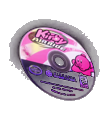
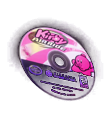
Анимация «Готово»: ровный мягкий край диска вместо рваного тёмного контура

Changed region(s): [[0.0811, 0.144, 0.9189, 0.816], [0.4865, 0.456, 0.5946, 0.528]]

diff --git a/tools/bake_done_gif.py b/tools/bake_done_gif.py
@@ -20,7 +20,7 @@ CGBitmapContextGetData = dr._sig(dr._cg, "CGBitmapContextGetData", ctypes.c_void
 CGBitmapContextGetBytesPerRow = dr._sig(dr._cg, "CGBitmapContextGetBytesPerRow", _sz, ctypes.c_void_p)
 
 
-def bake(src_path, out_dir, height=170, glow=3.0):
+def bake(src_path, out_dir, height=170, glow=4.0):
     os.makedirs(out_dir, exist_ok=True)
     url = dr._url(src_path)
     src = dr.CGImageSourceCreateWithURL(url, None)
@@ -44,8 +44,9 @@ def bake(src_path, out_dir, height=170, glow=3.0):
             for x in range(w):
                 p = row + x * 4
                 m = max(buf[p], buf[p + 1], buf[p + 2])
-                # чёрный фон (почти 0) — прозрачный; уже со слабой яркостью — почти непрозрачный диск
-                a = 0 if m < 6 else min(255, int(60 + m * glow))
+                # непрозрачность плавно растёт с яркостью: чёрный фон прозрачный, край диска — мягкий,
+                # без тёмного ободка (резкий порог давал рваный тёмный контур по краю)
+                a = min(255, int(m * glow))
                 buf[p + 3] = a   # цвета уже не больше непрозрачности — premultiplied остаётся корректным
         out = dr.CGBitmapContextCreateImage(ctx)
         tmp = os.path.join(out_dir, f".{i}.png")
